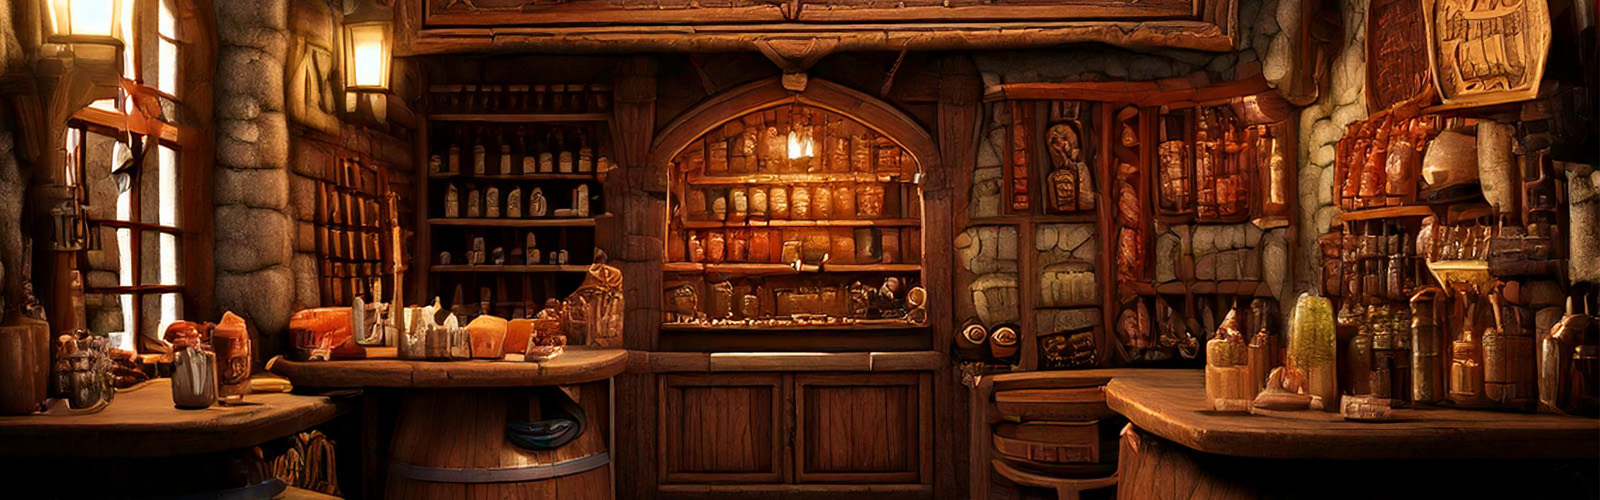
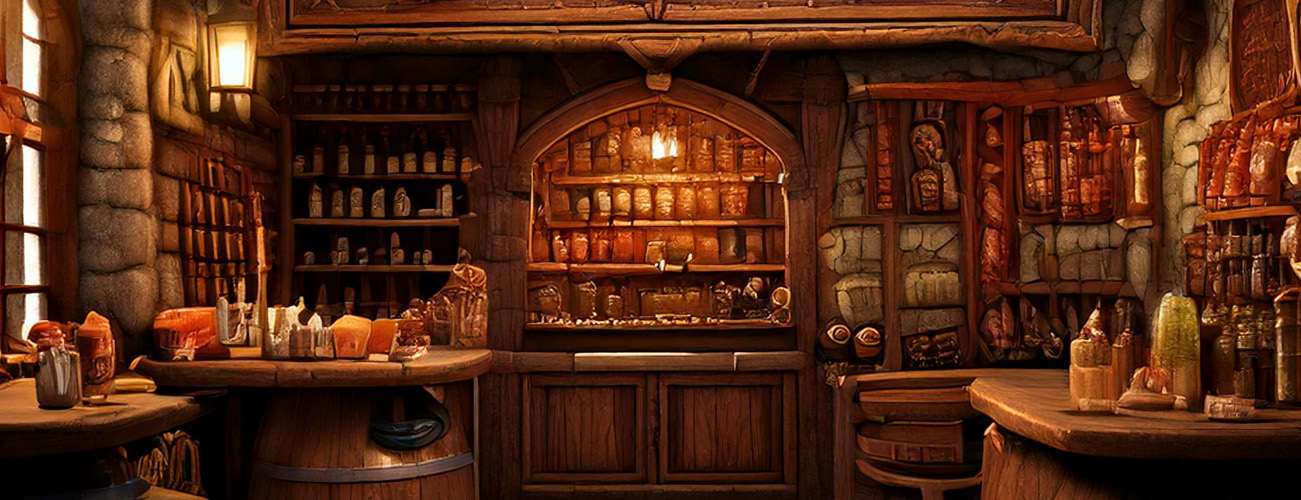
Add files via upload

diff --git a/index.html b/index.html
@@ -22,19 +22,19 @@
         <div id="slider" class="carousel slide pt-2" data-bs-ride="carousel">
             <div class="carousel-inner">
                 <div class="carousel-item active">
-                    <img class="img-fluid" src="img/carousel0.jpg" alt="Orbe mágica del Taller de Faerûn">
+                    <img class="img-fluid d-block margenes" src="img/carousel0.jpg" alt="Orbe mágica del Taller de Faerûn">
                     <div class="carousel-caption backgroundtransparent p-0 mb-2">
                         <div>
-                            <p class="text-banner mx-2 my-2 rounded">¡Conseguí a Gale a precio de lanzamiento!</p>
+                            <p class="text-banner mx-2 my-2 rounded">¡Invoca a Gale a precio de lanzamiento!</p>
                             <a href="#" class="btn buttonbanner">Comprar</a>
                         </div>
                     </div>
                 </div>
                 <div class="carousel-item">
-                    <img class="img-fluid" src="img/carousel1.jpg" alt="Mapa del Taller de Faerûn">
+                    <img class="img-fluid d-block margenes" src="img/carousel1.jpg" alt="Mapa del Taller de Faerûn">
                 </div>
                 <div class="carousel-item">
-                    <img class="img-fluid" src="img/carousel2.jpg" alt="Cofre de tesoros del Taller de Faerûn">
+                    <img class="img-fluid d-block margenes" src="img/carousel2.jpg" alt="Cofre de tesoros del Taller de Faerûn">
                 </div>
             </div>
 

diff --git a/tienda.html b/tienda.html
@@ -20,7 +20,7 @@
     <header class="container p-0 py-2">
 
         <div class="container p-0">
-            <img class="img-fluid d-none d-sm-block" src="img/bannertiendaz.jpg"
+            <img class="img-fluid d-block margenes" src="img/bannertienda.jpg"
                 alt="Banner de la sección de la Tienda de Faerûn">
             <h1 class="text-center font-weight-bold p-3 mt-4">El mercado</h1>
         </div>

diff --git a/css/styles.css b/css/styles.css
@@ -64,10 +64,11 @@ a:hover {
     text-transform: uppercase;
     font-size: large;
     color: #D4AF37;
+    border: none;
 }
 
 .buttonbanner:hover {
-    color: #e8b13a;
+    color: #edc43e;
 }
 
 .text-banner {
@@ -99,4 +100,9 @@ a:hover {
 
 .navbar-toggler:focus {
     box-shadow: none;
+}
+
+.margenes {
+    margin-left: auto;
+    margin-right: auto;
 }
